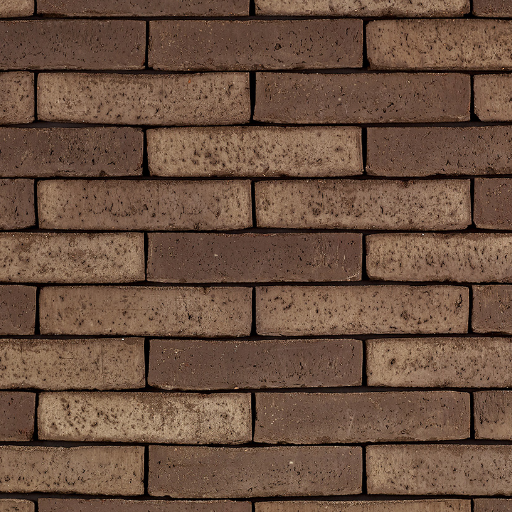
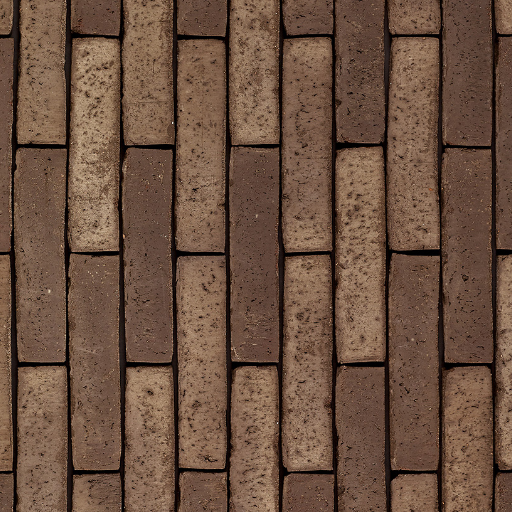
ajout textures plus réalistes + adaptation de trouver_balise

diff --git a/gl_lib/sim/robot/sensor/camera/d3/Model.py b/gl_lib/sim/robot/sensor/camera/d3/Model.py
@@ -23,7 +23,7 @@ class Model:
         self.graphic_objects = list()
         self.updatable_g_objs = list()
         l = ['white.png', 'red.png', 'green.png', 'blue.png', 'yellow.png', 'balise_modif.png', 'briques.png', 'plastique.png',
-             'balise_plastique.png']
+             'balise_metal.png', 'sol_pierre.png']
         for file in l:
             self.l_textures.append(self.get_tex(file))
         os.chdir(cur_dir)
@@ -54,7 +54,6 @@ class Model:
             # self.updatable_g_objs[i][1] est un pavé
             quads_lvertices = Model.get_vertices(self,self.updatable_g_objs[i][1])
             for j in range(6):
-                print(list(quads_lvertices[j]))
                 # self.updatable_g_objs[i][0] est une liste de quadrilatères (listes de 4 sommets)
                 self.updatable_g_objs[i][0][j].vertices=list(quads_lvertices[j])
 
@@ -79,13 +78,23 @@ class Model:
         l_ln = [[0, 1, 2, 3], [0, 3, 7, 4], [1, 5, 6, 2], [4, 5, 6, 7], [0, 4, 5, 1], [3, 2, 6, 7]]
         l_objs = list()
         for l in range(len(l_ln)):
-            obj=cur_batch.add(4, GL_QUADS, self.side,
-                           ('v3f/static', (p.vertices[l_ln[l][0]].x, p.vertices[l_ln[l][0]].y, p.vertices[l_ln[l][0]].z,
-                                    p.vertices[l_ln[l][1]].x, p.vertices[l_ln[l][1]].y, p.vertices[l_ln[l][1]].z,
-                                    p.vertices[l_ln[l][2]].x, p.vertices[l_ln[l][2]].y, p.vertices[l_ln[l][2]].z,
-                                    p.vertices[l_ln[l][3]].x, p.vertices[l_ln[l][3]].y, p.vertices[l_ln[l][3]].z,)),
-                           tex_coords)
+            if l != 3:
+                obj=cur_batch.add(4, GL_QUADS, self.side,
+                               ('v3f/static', (p.vertices[l_ln[l][0]].x, p.vertices[l_ln[l][0]].y, p.vertices[l_ln[l][0]].z,
+                                        p.vertices[l_ln[l][1]].x, p.vertices[l_ln[l][1]].y, p.vertices[l_ln[l][1]].z,
+                                        p.vertices[l_ln[l][2]].x, p.vertices[l_ln[l][2]].y, p.vertices[l_ln[l][2]].z,
+                                        p.vertices[l_ln[l][3]].x, p.vertices[l_ln[l][3]].y, p.vertices[l_ln[l][3]].z,)),
+                               tex_coords)
+            else:
+                obj=cur_batch.add(4, GL_QUADS, self.l_textures[9],
+                               ('v3f/static', (p.vertices[l_ln[l][0]].x, p.vertices[l_ln[l][0]].y, p.vertices[l_ln[l][0]].z,
+                                        p.vertices[l_ln[l][1]].x, p.vertices[l_ln[l][1]].y, p.vertices[l_ln[l][1]].z,
+                                        p.vertices[l_ln[l][2]].x, p.vertices[l_ln[l][2]].y, p.vertices[l_ln[l][2]].z,
+                                        p.vertices[l_ln[l][3]].x, p.vertices[l_ln[l][3]].y, p.vertices[l_ln[l][3]].z,)),
+                               tex_coords)
+
             l_objs.append(obj)
+
         p=pave
         self.graphic_objects.append((l_objs, p))
 

diff --git a/gl_lib/sim/test/TestDroitVersBalise.py b/gl_lib/sim/test/TestDroitVersBalise.py
@@ -21,7 +21,7 @@ class TestDroitVersBalise(unittest.TestCase):
     def setUp(self):
         self.v2 = Vecteur(1,0,0)
         self.p0 = Point(1,1,0.5)
-        self.strat = DroitVersBaliseVision(RobotMotorise(forme=Pave(1,1,1,self.p0.clone()), direction=self.v2.clone()), AreneFermee(3,3,3))
+        self.strat = DroitVersBaliseVision(RobotMotorise(forme=Pave(1,1,1,self.p0.clone()), direction=self.v2.clone()), AreneFermee(5,5,5))
         self.target = RobotTarget(forme=Pave(1,1,1, self.p0.clone()+self.v2*3), direction=self.v2.clone())
         self.strat.arene.add(self.target)
 
@@ -40,18 +40,17 @@ class TestDroitVersBalise(unittest.TestCase):
             pass
 
     def test_target_circle_trajectectory(self):
-        self.strat = DroitVersBaliseVision(RobotMotorise(forme=Pave(1,1,1,self.p0.clone()), direction=self.v2.clone()), AreneFermee(3,3,3))
+        self.strat = DroitVersBaliseVision(RobotMotorise(forme=Pave(1,1,1,self.p0.clone()), direction=self.v2.clone()), AreneFermee(10,10,10))
         self.strat2 = DeplacementCercle(robot=self.target,vitesse=30, diametre=3, angle_max=360)
         td = Thread(target=self.strat.start_3D)
-        sim = Simulation(strategies=[self.strat2, self.strat], tmax=40, tic=3,
-                         tic_display=[self.strat],
-                         final_actions=[self.strat.stop_3D])
+        sim = Simulation(strategies=[self.strat2, self.strat], tmax=15, tic=1,tic_display=[self.strat], final_actions=[self.strat.stop_3D])
         td.start()
         while not self.strat.robot.tete.sensors["cam"].is_set:
             pass
         sim.start()
         while not sim.stop:
             pass
+        self.assertNotEqual(self.strat.last_detected, None)
 
 
 

diff --git a/gl_lib/sim/test/TestCamera.py b/gl_lib/sim/test/TestCamera.py
@@ -35,7 +35,6 @@ class TestCamera(unittest.TestCase):
             Vérifie l'effectivité du système de capture d'écran
         """
         # L'image n'est prise que lorsque la fenêtre est dessinée, quand self.obj.is_set est à True
-        return
         print("Testing picture...")
         self.obj.take_picture()
         while not self.obj.is_set:
@@ -57,7 +56,6 @@ class TestCamera(unittest.TestCase):
         """
             Affiche une arène vide en 3D, effectue quelques rotations
         """
-        return
         print("Testing video...")
         td = Thread(target=self.obj.run)
 
@@ -83,7 +81,6 @@ class TestCamera(unittest.TestCase):
         p = RobotTarget(forme=Pave(1,1,1, Point(3,3,0.5)))
         a=Arene()
         a.add(p)
-        n = int(1000/PAS_TEMPS)
         n_rot = 100
         teta = 2*pi/n_rot
 
@@ -91,7 +88,7 @@ class TestCamera(unittest.TestCase):
         td.start()
         while not self.obj.is_set:
             pass
-        for i in range(n):
+        for i in range(n_rot):
             p.rotate_all_around(p.centre, teta)
             sleep(PAS_TEMPS)
 

diff --git a/gl_lib/sim/robot/strategy/analyse/image/trouver_balise.py b/gl_lib/sim/robot/strategy/analyse/image/trouver_balise.py
@@ -70,10 +70,10 @@ def trouver_balise(couleurs: [tuple],image=None,fname=None, output=None):
                     p = pave.vertices[lvertices[i]].to_tuple(type_coords=int)
                     c = im.getpixel((p[0], p[1]))
                     if not get_lower_lum(couleurs[i], PRECISION_LUM) <= c <= get_upper_lum(couleurs[i], PRECISION_LUM):
-                        #print(couleurs[i], " != ",im.getpixel((p[0], p[1])), (Point(p[0],p[1],0)-p0).to_vect(), "\n")
+                        #print(im.getpixel((p[0], p[1])), " !E ", get_lower_lum(couleurs[i], PRECISION_LUM),", ",get_upper_lum(couleurs[i], PRECISION_LUM), "\n")
                         balise = False
                         break
-                    #print(couleurs[i], " == ", im.getpixel((p[0], p[1])))
+                    #print(im.getpixel((p[0], p[1])), " == ", couleurs[i])
 
                 if balise:
                     centre_balise = (float(x)/w_im, float(y)/l_im, 0)

diff --git a/gl_lib/config.py b/gl_lib/config.py
@@ -10,8 +10,9 @@ PIX_PAR_M_2D=50
 PIX_PAR_M=5
 PIX_PAR_M_3D=5
 
-RATIO_SEARCH_SCREENSHOT = 20
-SEARCH_LUM_PRECISION = 90
+# Prendre une trop grande précision peut amener des erreurs dans la recherche de la balise
+RATIO_SEARCH_SCREENSHOT = 10
+SEARCH_LUM_PRECISION = 100
 FORMAT_SCREENSHOT = ".png"
 FILENAME_SCREENSHOT = "screenshot"
 # A précéder du nom du répertoire du projet

diff --git a/gl_lib/sim/robot/strategy/deplacement/balise/TournerVersBalise.py b/gl_lib/sim/robot/strategy/deplacement/balise/TournerVersBalise.py
@@ -87,7 +87,7 @@ class TournerVersBalise(Tourner, StrategieVision):
             self.cpt += 1
             return None, None
         angle = -(p[0] - 0.5) * Camera.ANGLE_VY / 2
-        # print(angle)
+        #print(angle)
         sens = signe(angle)
         if abs(angle) < TournerVersBalise.PRECISION:
             # print("Target ahead (", angle, " degres from vertical)")
